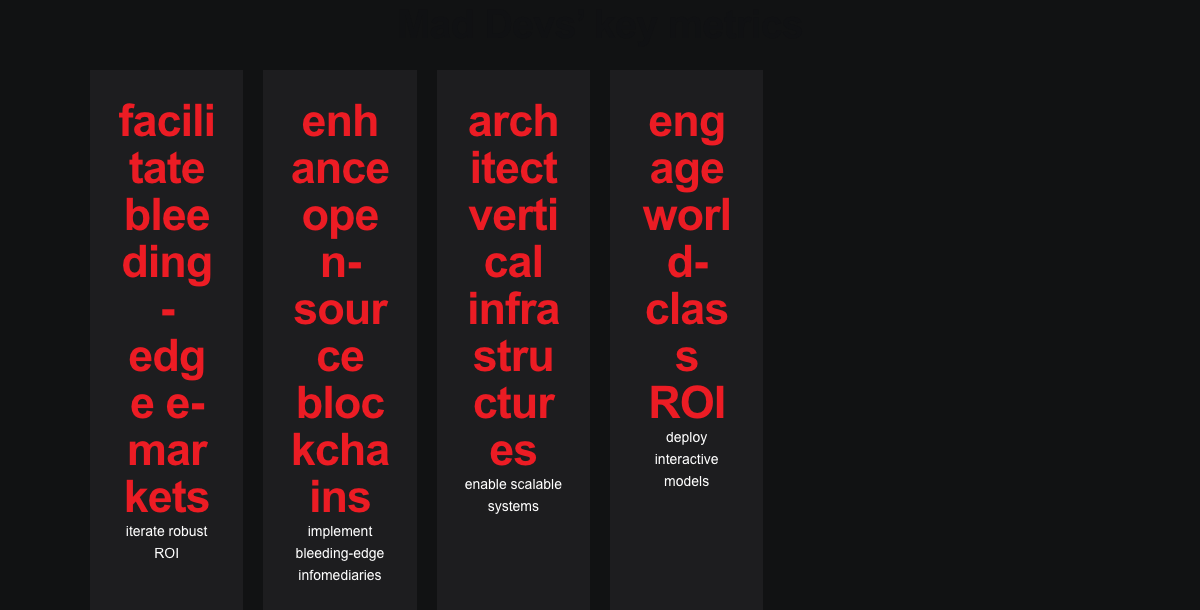
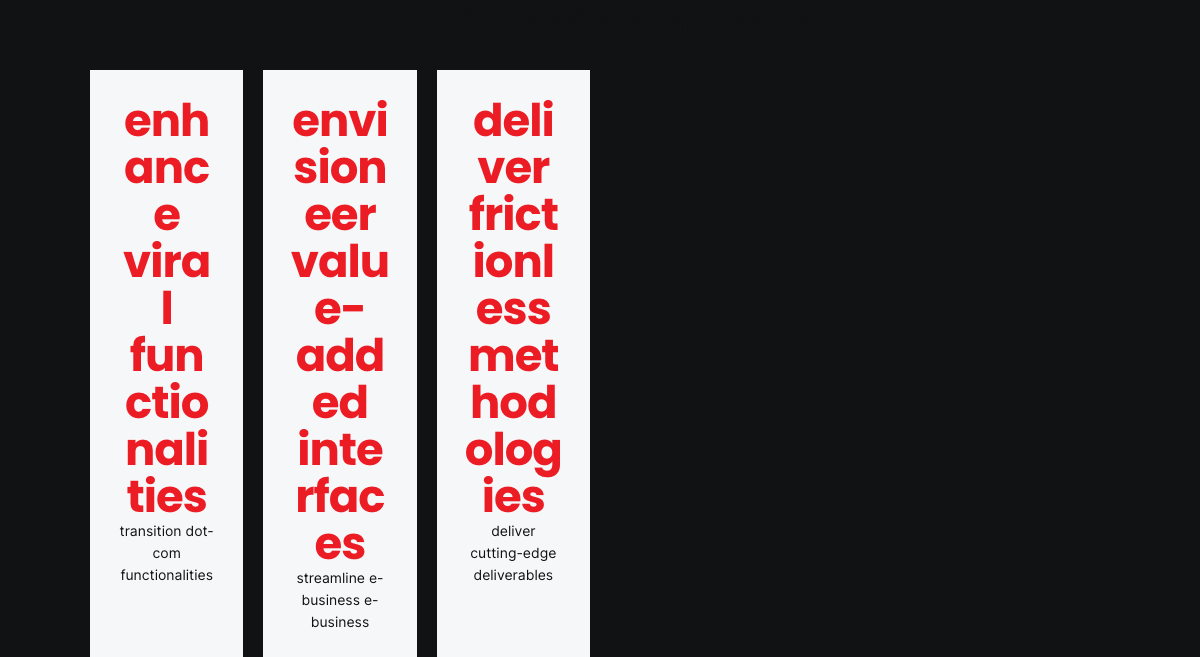
MAR-1677 Added the color options for Key metrics slice

diff --git a/.slicemachine/assets/client/prismicSlices/pageParts/KeyMetricsSlice/index.stories.js b/.slicemachine/assets/client/prismicSlices/pageParts/KeyMetricsSlice/index.stories.js
@@ -18,7 +18,7 @@ export const _DefaultSlice = () => ({
   },
   data() {
     return {
-      mock: {"variation":"default-slice","name":"Default slice","slice_type":"key_metrics_slice","items":[{"title":"facilitate bleeding-edge e-markets","subtitle":"iterate robust ROI"},{"title":"enhance open-source blockchains","subtitle":"implement bleeding-edge infomediaries"},{"title":"architect vertical infrastructures","subtitle":"enable scalable systems"},{"title":"engage world-class ROI","subtitle":"deploy interactive models"}],"primary":{"colorTheme":"black"},"id":"_DefaultSlice"}
+      mock: {"variation":"default-slice","name":"Default slice","slice_type":"key_metrics_slice","items":[{"title":"enhance viral functionalities","subtitle":"transition dot-com functionalities"},{"title":"envisioneer value-added interfaces","subtitle":"streamline e-business e-business"},{"title":"deliver frictionless methodologies","subtitle":"deliver cutting-edge deliverables"}],"primary":{"background":"black"},"id":"_DefaultSlice"}
     }
   },
   template: '<SliceZone :slices="[mock]" :resolver="resolve" />'
@@ -37,7 +37,7 @@ export const _SecondVariation = () => ({
   },
   data() {
     return {
-      mock: {"variation":"secondVariation","name":"Second variation","slice_type":"key_metrics_slice","items":[{"title":"morph mission-critical relationships","subtitle":"engage proactive infrastructures"},{"title":"matrix B2C blockchains","subtitle":"generate distributed infomediaries"}],"primary":{"colorTheme":"white"},"id":"_SecondVariation"}
+      mock: {"variation":"secondVariation","name":"Second variation","slice_type":"key_metrics_slice","items":[{"title":"syndicate back-end bandwidth","subtitle":"generate efficient e-services"},{"title":"orchestrate world-class infomediaries","subtitle":"integrate virtual bandwidth"},{"title":"innovate bleeding-edge functionalities","subtitle":"enhance mission-critical eyeballs"},{"title":"expedite customized ROI","subtitle":"streamline turn-key portals"}],"primary":{"colorTheme":"white","background":"black"},"id":"_SecondVariation"}
     }
   },
   template: '<SliceZone :slices="[mock]" :resolver="resolve" />'
@@ -56,7 +56,7 @@ export const _ThirdVariation = () => ({
   },
   data() {
     return {
-      mock: {"variation":"thirdVariation","name":"Third variation","slice_type":"key_metrics_slice","items":[{"title":"deploy impactful infrastructures","subtitle":"grow seamless mindshare"},{"title":"repurpose mission-critical experiences","subtitle":"maximize innovative content"},{"title":"brand intuitive action-items","subtitle":"enhance user-centric networks"},{"title":"reintermediate interactive partnerships","subtitle":"incentivize 24/365 paradigms"},{"title":"disintermediate dynamic infrastructures","subtitle":"visualize bricks-and-clicks eyeballs"}],"primary":{"colorTheme":"black"},"id":"_ThirdVariation"}
+      mock: {"variation":"thirdVariation","name":"Third variation","slice_type":"key_metrics_slice","items":[{"title":"deliver compelling web services","subtitle":"matrix back-end bandwidth"},{"title":"deploy enterprise interfaces","subtitle":"deliver real-time initiatives"},{"title":"incubate web-enabled solutions","subtitle":"embrace sexy deliverables"}],"primary":{"colorTheme":"white","background":"white"},"id":"_ThirdVariation"}
     }
   },
   template: '<SliceZone :slices="[mock]" :resolver="resolve" />'

diff --git a/client/prismicSlices/pageParts/KeyMetricsSlice/variations/ThirdVariation.vue b/client/prismicSlices/pageParts/KeyMetricsSlice/variations/ThirdVariation.vue
@@ -1,5 +1,10 @@
 <template>
-  <div class="key-metrics-slice__content">
+  <div
+    :class="[
+      'key-metrics-slice__content',
+      colorTheme ? `key-metrics-slice__content--${colorTheme}-theme` : null
+    ]"
+  >
     <h2 class="key-metrics-slice__title">
       Mad Devs’ <br> key metrics
     </h2>
@@ -24,6 +29,11 @@
 export default {
   name: 'WithLeftTitle',
   props: {
+    colorTheme: {
+      type: String,
+      default: 'white',
+    },
+
     metrics: {
       type: Array,
       required: true,
@@ -36,6 +46,34 @@ export default {
 <style lang="scss" scoped>
 .key-metrics-slice {
   &__content {
+    &--white-theme {
+      .key-metrics-slice__title {
+        color: $text-color--black-oil;
+      }
+      /deep/ .key-metric {
+        background-color: $bgcolor--silver;
+        &__title,
+        &__subtitle {
+          color: $text-color--black-oil;
+        }
+      }
+    }
+
+    &--black-theme {
+      .key-metrics-slice__title {
+        color: $text-color--black-oil;
+      }
+      /deep/ .key-metric {
+        background-color: $bgcolor--black-pale;
+        &__title,
+        &__subtitle {
+          color: $text-color--white-primary;
+        }
+      }
+    }
+  }
+
+  &__content {
     display: flex;
     justify-content: space-between;
     @media screen and (max-width: 1340px) {
@@ -43,12 +81,12 @@ export default {
       justify-content: flex-start;
     }
   }
+
   &__title {
     @include font('Inter', 60px, 700);
     line-height: 64px;
     letter-spacing: -2.6px;
     margin-right: 45px;
-    color: $text-color--black-oil;
     white-space: nowrap;
     @media screen and (max-width: 1340px) {
       margin-right: 0;
@@ -62,6 +100,7 @@ export default {
       font-size: 40px;
     }
   }
+
   &__grid {
     flex: 1;
     width: 100%;
@@ -81,6 +120,7 @@ export default {
   @media screen and (max-width: 1024px) {
     padding: 17px 22px 30px;
   }
+
   &__title {
     @include font('Inter', 53px, 700);
     line-height: 56px;
@@ -90,6 +130,7 @@ export default {
       line-height: 56px;
     }
   }
+
   &__subtitle {
     @include font('Inter', 17px, 400);
     line-height: 24px;

diff --git a/client/prismicSlices/pageParts/KeyMetricsSlice/variations/SecondVariation.vue b/client/prismicSlices/pageParts/KeyMetricsSlice/variations/SecondVariation.vue
@@ -1,5 +1,10 @@
 <template>
-  <div class="key-metrics-slice__content">
+  <div
+    :class="[
+      'key-metrics-slice__content',
+      colorTheme ? `key-metrics-slice__content--${colorTheme}-theme` : null
+    ]"
+  >
     <h2 class="key-metrics-slice__title">
       Mad Devs’ key metrics
     </h2>
@@ -24,6 +29,11 @@
 export default {
   name: 'WithTopTitle',
   props: {
+    colorTheme: {
+      type: String,
+      default: 'white',
+    },
+
     metrics: {
       type: Array,
       required: true,
@@ -35,17 +45,47 @@ export default {
 
 <style lang="scss" scoped>
 .key-metrics-slice {
+  &__content {
+    &--white-theme {
+      .key-metrics-slice__title {
+        color: $text-color--black-oil;
+      }
+      /deep/ .key-metric {
+        background-color: $bgcolor--silver;
+        &__title,
+        &__subtitle {
+          color: $text-color--black-oil;
+        }
+      }
+    }
+
+    &--black-theme {
+      .key-metrics-slice__title {
+        color: $text-color--black-oil;
+      }
+      /deep/ .key-metric {
+        background-color: $bgcolor--black-oil;
+        &__title {
+          color: $text-color--white-primary;
+        }
+        &__subtitle {
+          color: $text-color--silver;
+        }
+      }
+    }
+  }
+
   &__title {
     @include font('Inter', 42px, 700);
     line-height: 46px;
     letter-spacing: -1.3px;
     margin-bottom: 28px;
-    color: $text-color--black-oil;
     text-align: center;
     @media screen and (max-width: 768px) {
       text-align: left;
     }
   }
+
   &__grid {
     width: 100%;
     display: grid;
@@ -63,12 +103,13 @@ export default {
 .key-metric {
   border-radius: 4px;
   padding: 24px 32px;
-  background-color: white;
+
   &__title {
     @include font('Inter', 28px, 700);
     line-height: 32px;
     letter-spacing: -1px;
   }
+
   &__subtitle {
     @include font('Inter', 16px, 400);
     line-height: 24px;

diff --git a/client/prismicSlices/pageParts/KeyMetricsSlice/index.vue b/client/prismicSlices/pageParts/KeyMetricsSlice/index.vue
@@ -1,7 +1,9 @@
 <template>
   <section
     class="key-metrics-slice"
-    :class="colorThemeClass"
+    :style="{
+      sliceBackground,
+    }"
   >
     <div class="container">
       <FirstVariation
@@ -46,34 +48,12 @@ export default {
     },
   },
 
-  data() {
-    return {
-      colorTheme: this.slice.primary.colorTheme,
-    }
-  },
-
   computed: {
-    colorThemeClass() {
-      if (this.colorTheme === 'white') return 'key-metrics-slice--white-theme'
-      return 'key-metrics-slice--black-theme'
+    sliceBackground() {
+      if (this.slice.primary.background === 'white') return '#fff'
+      if (this.slice.primary.background === 'grey') return '#f5f7f9'
+      return '#111213' // black
     },
   },
 }
 </script>
-
-<style lang="scss" scoped>
-.key-metrics-slice {
-  &--black-theme {
-    /deep/ .key-metric {
-      background-color: $bgcolor--black-pale;
-      color: $text-color--white-primary;
-    }
-  }
-  &--white-theme {
-    /deep/ .key-metric {
-      background-color: $bgcolor--silver;
-      color: $text-color--black-oil;
-    }
-  }
-}
-</style>

diff --git a/client/prismicSlices/pageParts/KeyMetricsSlice/variations/FirstVariation.vue b/client/prismicSlices/pageParts/KeyMetricsSlice/variations/FirstVariation.vue
@@ -40,8 +40,8 @@ export default {
     line-height: 48px;
     letter-spacing: -1px;
     margin-bottom: 22px;
-    color: $text-color--black-oil;
     text-align: center;
+    color: $text-color--black-lighter;
     @media screen and (max-width: 1024px) {
       font-size: 36px;
       line-height: 43px;
@@ -63,18 +63,20 @@ export default {
 
 .key-metric {
   padding: 27px 27px 24px;
-  background-color: $bgcolor--white;
   word-break: break-word;
+  background-color: $bgcolor--white;
   @media screen and (max-width: 1024px) {
     padding: 29px 17px 13px;
   }
   @media screen and (max-width: 1024px) {
     padding: 28px 13px;
   }
+
   &__title,
   &__subtitle {
     text-align: center;
   }
+
   &__title {
     @include font('Poppins', 45px, 700);
     line-height: 47px;
@@ -85,9 +87,11 @@ export default {
       line-height: 40px;
     }
   }
+
   &__subtitle {
     @include font('Inter', 14px, 400);
     line-height: 22px;
+    color: $text-color--black-lighter;
     @media screen and (max-width: 1024px) {
       margin-top: 8px;
       font-size: 12px;
